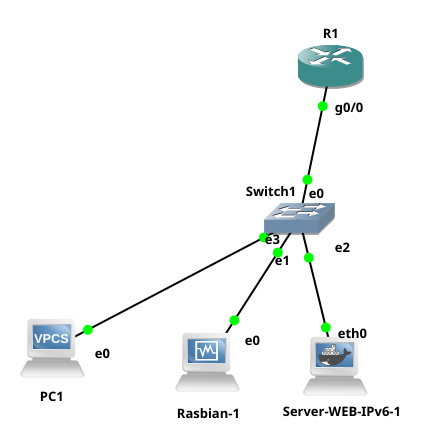
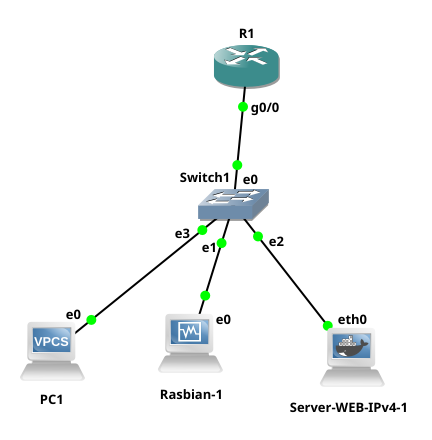
docs: actualizar guia y agregar evidencia de captura HTTP

diff --git a/README.md b/README.md
@@ -1,67 +1,120 @@
 # PROYECTO ORIGEN - Laboratorio Web IPv4 para Capa 4
 
-Este proyecto contiene un servidor web HTML estatico sobre Nginx, pensado para el laboratorio de la unidad final de **Internet: Redes y Comunicaciones IP**.
+Este proyecto contiene un servidor web HTML estático sobre Nginx, diseñado como laboratorio para la unidad final de **Internet: Redes y Comunicaciones IP**.
 
-El objetivo pedagogico es observar en GNS3 la relacion entre:
+El propósito pedagógico es observar en GNS3 la relación entre:
 
-- Direccionamiento IPv4
-- Capa 4 del modelo OSI
-- TCP
-- Puertos
-- HTTP
-- Captura y analisis de trafico con Wireshark
+- Direccionamiento IPv4.
+- Capa 4 del modelo OSI.
+- TCP.
+- Puertos y servicios.
+- HTTP.
+- Captura y análisis de tráfico con Wireshark.
 
-> Este laboratorio no busca ensenar desarrollo web. El formulario es deliberadamente simple para facilitar el analisis del trafico.
+> Este laboratorio no busca enseñar desarrollo web. El formulario es deliberadamente simple para facilitar la observación y análisis del tráfico generado entre cliente y servidor.
 
-## Topologia de referencia
+## Topología de referencia
 
-![Topologia del laboratorio](topologia-lab-ipv4.png)
+![Topología del laboratorio](topologia-lab-ipv4.png)
 
 Direccionamiento propuesto:
 
-| Equipo | IPv4 | Funcion |
+| Equipo | IPv4 | Función |
 |---|---|---|
 | R1 | `192.168.10.1/24` | Gateway |
 | Raspbian | `192.168.10.11/24` | Cliente Linux |
 | PC1 | `192.168.10.12/24` | Cliente VPCS |
 | Servidor Web | `192.168.10.13/24` | Servidor HTTP |
 
-## Estructura
+## Estructura del proyecto
 
 ```text
-origen-web-ipv4/
+IRYCIP-GNS3_Web_IPv4/
 ├── Dockerfile
+├── docker-compose.yml
 ├── index.html
 ├── README.md
-└── topologia-lab-ipv4.png
+├── topologia-lab-ipv4.png
+└── capturas/
+    └── Captura desde 2026-11-03 17-42-41.png
 ```
 
-## Construccion de la imagen
+## Construcción y ejecución con Docker Compose
+
+Para construir la imagen e iniciar el contenedor:
 
 ```bash
-docker build -t origen-web-ipv4 .
+docker compose up -d --build
 ```
 
-## Ejecucion local con Docker
+Para comprobar el estado:
 
 ```bash
-docker run -d \
-  --name origen-web-ipv4 \
-  -p 8080:80 \
-  origen-web-ipv4
+docker ps
 ```
 
-Luego abrir:
+La imagen generada para el laboratorio es:
 
 ```text
-http://localhost:8080
+origen-web-ipv4:latest
+```
+
+El contenedor puede utilizarse localmente para validar el sitio antes de incorporarlo a GNS3.
+
+## Acceso al contenedor desde la terminal
+
+Antes de ingresar al contenedor es necesario identificar su **Container ID**:
+
+```bash
+docker ps
+```
+
+Ejemplo de salida:
+
+```text
+CONTAINER ID   IMAGE                    NAMES
+1652c7ae2e65   origen-web-ipv4:latest   origen-web-ipv4
+```
+
+Una vez conocido el identificador, ingresar utilizando Bash:
+
+```bash
+docker exec -it ID_CONT bash
+```
+
+Ejemplo:
+
+```bash
+docker exec -it 1652c7ae2e65 bash
+```
+
+Dentro del contenedor se pueden utilizar herramientas de diagnóstico como:
+
+```bash
+ip -br addr
+ip route
+ip neigh
+ss -lntp
+ping
+curl
+traceroute
+tcpdump
+ps aux
 ```
 
 ## Uso en GNS3
 
-La recomendacion es importar la imagen `origen-web-ipv4` como un **Docker container appliance** y conectar su interfaz `eth0` al switch del escenario.
+La recomendación es importar la imagen `origen-web-ipv4:latest` como un **Docker container appliance** y conectar su interfaz `eth0` al switch del escenario.
 
-Para una prueba temporal dentro del contenedor, se puede asignar:
+Para el laboratorio, el servidor utiliza:
+
+```text
+IPv4:    192.168.10.13/24
+Gateway: 192.168.10.1
+Servicio: HTTP sobre TCP/80
+```
+
+Una configuración temporal desde el contenedor puede realizarse con:
 
 ```bash
 ip addr add 192.168.10.13/24 dev eth0
@@ -69,31 +122,38 @@ ip link set eth0 up
 ip route add default via 192.168.10.1
 ```
 
-Validacion:
+Validación:
 
 ```bash
 ip -br addr
 ip route
 ping -c 4 192.168.10.1
+ping -c 4 192.168.10.11
 ```
 
-## Verificacion del servicio HTTP
+## Verificación del servicio HTTP
 
-Dentro del contenedor:
+Dentro del servidor:
 
 ```bash
-ss -lnt
+ss -lntp
 ```
 
-Debe observarse el puerto TCP 80 en escucha.
+Debe observarse Nginx escuchando en el puerto TCP 80.
 
-Desde otro host:
+Desde Raspbian:
 
 ```bash
 curl http://192.168.10.13
 ```
 
-## Captura con Wireshark
+También puede accederse desde un navegador mediante:
+
+```text
+http://192.168.10.13
+```
+
+## Captura y análisis con Wireshark
 
 Filtros sugeridos:
 
@@ -109,47 +169,119 @@ http
 http.request
 ```
 
-La secuencia esperada incluye:
+Durante una conexión HTTP pueden observarse, entre otros elementos:
 
-1. TCP SYN
-2. TCP SYN/ACK
-3. TCP ACK
-4. HTTP GET
+1. TCP SYN.
+2. TCP SYN/ACK.
+3. TCP ACK.
+4. Solicitud HTTP.
+5. Respuesta HTTP.
 
-## Formulario y credenciales
+Esto permite relacionar directamente el establecimiento de una sesión TCP con el intercambio posterior de información de la aplicación.
 
-El formulario utiliza intencionalmente:
+## Evidencia de laboratorio
+
+La carpeta `capturas/` almacena evidencias obtenidas durante la ejecución y análisis del escenario.
+
+![Captura de tráfico del laboratorio](capturas/Captura%20desde%202026-11-03%2017-42-41.png)
+
+La captura permite evidenciar que, al utilizar HTTP sin cifrado, la información enviada por el formulario puede ser inspeccionada desde una herramienta de análisis de tráfico como Wireshark.
+
+## Formulario HTTP: GET y POST
+
+La versión inicial del laboratorio utiliza intencionalmente:
 
 ```html
 <form action="/" method="GET">
 ```
 
-Esto permite observar que los campos enviados pueden aparecer en la URL y en la captura HTTP.
-
-Ejemplo conceptual:
+Con `GET`, los parámetros enviados por el formulario aparecen directamente en la URL. Por ejemplo:
 
 ```text
 GET /?usuario=daniel&password=origen123 HTTP/1.1
 ```
 
-**No usar este patron en sistemas reales.** Su finalidad es exclusivamente didactica para demostrar que HTTP sin cifrado no protege las credenciales.
+Esto facilita una primera demostración de cómo se transportan parámetros mediante HTTP, aunque hace muy evidente la exposición de las variables en la propia URL.
 
-## Proposito del laboratorio
+### Evolución recomendada: utilizar POST
+
+Para una segunda versión del laboratorio resulta pedagógicamente más interesante utilizar:
+
+```html
+<form action="/" method="POST">
+```
+
+Con `POST`, el usuario y la contraseña ya no aparecen en la URL. Sin embargo, **si se continúa utilizando HTTP sin TLS, los datos siguen viajando sin cifrado y pueden observarse dentro del cuerpo de la solicitud HTTP mediante Wireshark**.
+
+Esta comparación permite explicar una idea importante:
+
+> Cambiar de GET a POST modifica la forma en que se envían los datos, pero no proporciona cifrado. La protección de la información en tránsito requiere HTTPS/TLS.
+
+Por tanto, el laboratorio puede evolucionar pedagógicamente en tres etapas:
+
+```text
+GET sobre HTTP
+      ↓
+POST sobre HTTP
+      ↓
+POST sobre HTTPS/TLS
+```
+
+Esto permite comparar visibilidad de parámetros, transporte mediante TCP y protección de datos de aplicación.
+
+> **Advertencia:** nunca deben utilizarse credenciales reales durante estas pruebas. El escenario tiene fines exclusivamente académicos y debe ejecutarse en un entorno controlado.
+
+## Propósito del laboratorio
 
 La idea central para los estudiantes es distinguir:
 
-> La direccion IP identifica el host; el puerto identifica el servicio.
+> **La dirección IP identifica el host; el puerto identifica el servicio.**
+
+A partir del escenario se puede analizar:
+
+```text
+Cliente
+   |
+   | TCP/80
+   v
+Servidor Web
+192.168.10.13
+   |
+   └── Nginx
+          └── HTTP
+```
+
+También permite demostrar que disponer de conectividad IP no implica necesariamente que un servicio de aplicación esté disponible.
+
+Por ejemplo:
+
+```bash
+ping 192.168.10.13
+```
+
+valida conectividad hacia el host, mientras que:
+
+```bash
+curl http://192.168.10.13
+```
+
+valida el acceso al servicio HTTP.
+
+## Posibles extensiones
 
 A partir de este escenario se puede evolucionar posteriormente hacia:
 
-- HTTP vs HTTPS
-- TCP vs UDP
-- Puertos y sockets
-- Nginx/Apache
-- CMS
-- Bases de datos
-- Captura de sesiones reales
+- HTTP GET vs HTTP POST.
+- HTTP vs HTTPS/TLS.
+- TCP vs UDP.
+- Puertos y sockets.
+- Análisis del three-way handshake de TCP.
+- Nginx y Apache.
+- CMS.
+- Bases de datos.
+- Captura de sesiones reales.
+- Diagnóstico mediante `ss`, `tcpdump`, `curl` y Wireshark.
 
 ## PROYECTO ORIGEN
 
-Explorar · Comprender · Conectar · Diagnosticar
+**Explorar · Comprender · Conectar · Diagnosticar**
